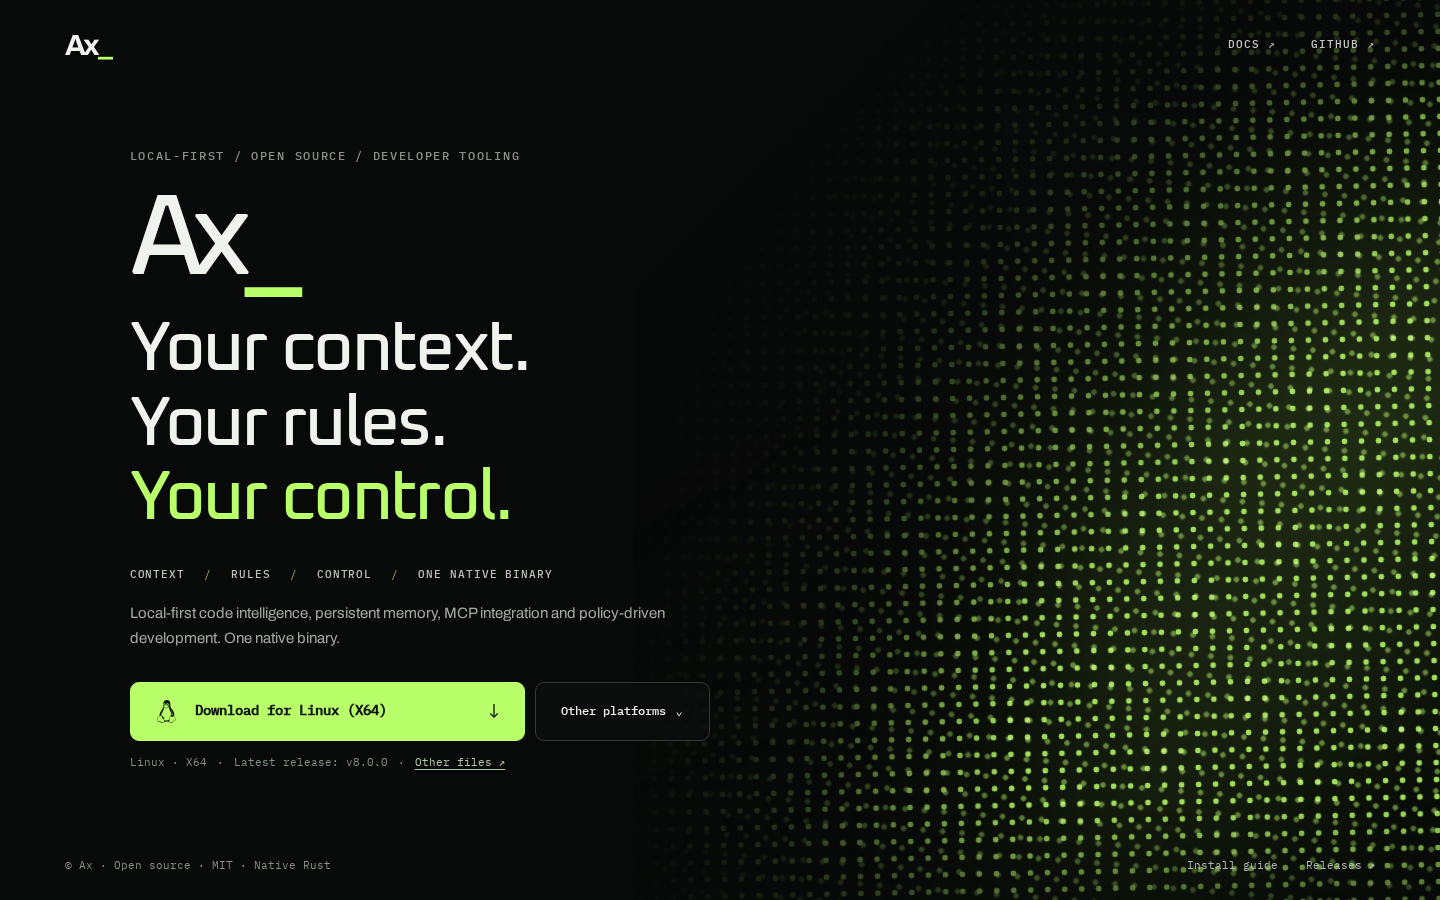
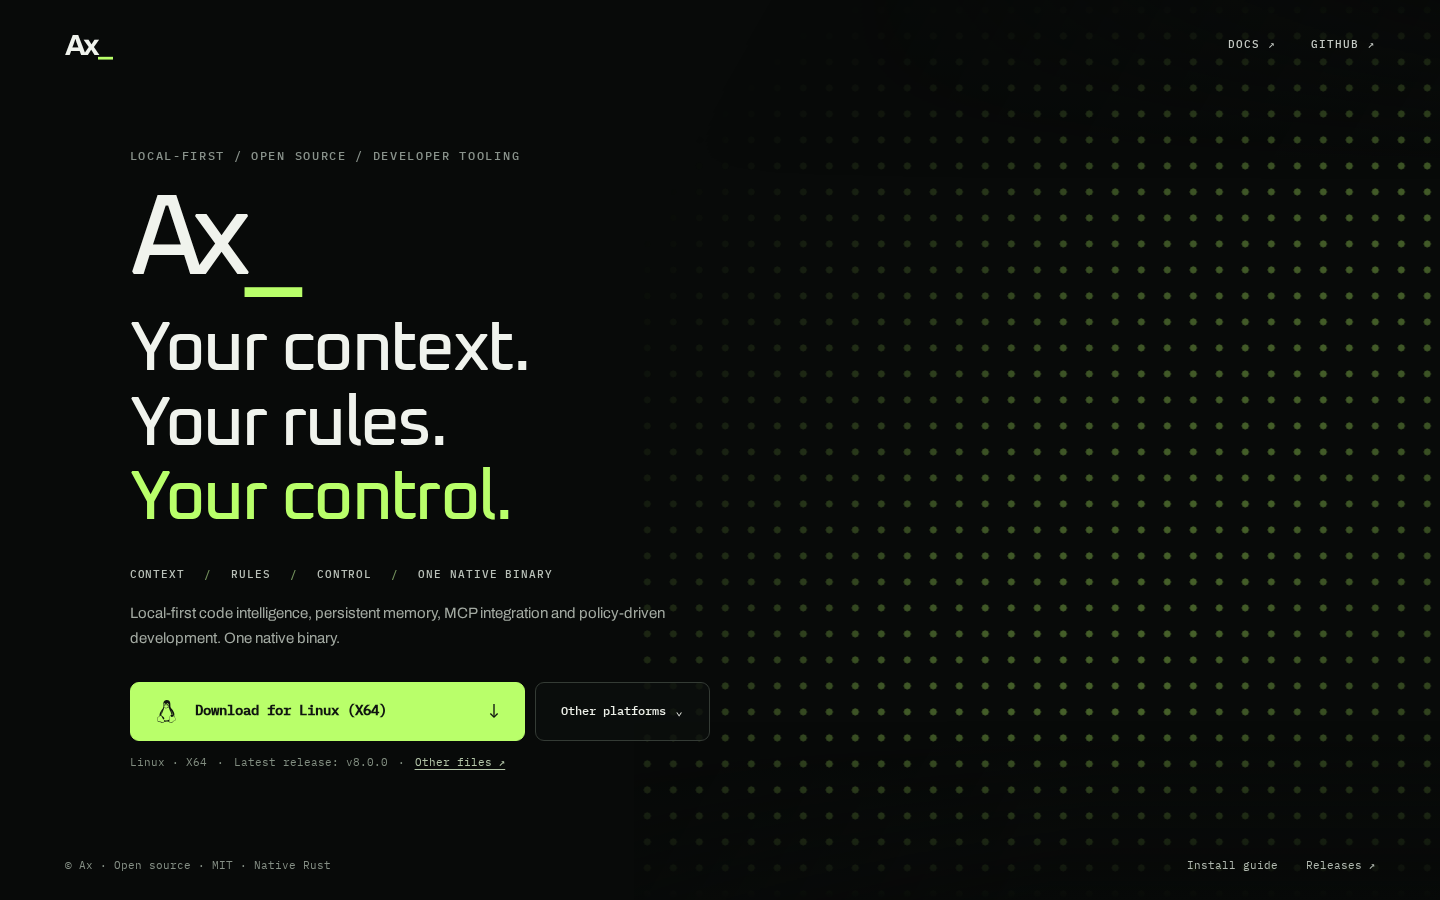
fix(site): calm halftone backdrop and refresh dependencies before builds

Changed region(s): [[0.5, 0.0, 1.0, 1.0]]

diff --git a/site/src/styles/minimal-home.css b/site/src/styles/minimal-home.css
@@ -54,24 +54,22 @@ body.ax-landing{--ax-bg:#080a09;--ax-ink:#f0f3ed;--ax-muted:#a3aaa2;--ax-dim:#6f
 .ax-landing .ax-footer a{color:#b1b9b0}
 .ax-landing .ax-footer a:hover{color:var(--ax-lime)}
 .ax-landing .ax-footer .ax-footer-links{display:flex;gap:28px}
-/* Pop-art halftone moire: larger monochrome dots with interference motion. */
-.ax-landing .ax-moire{position:absolute;z-index:1;inset:-8% -6% -8% 44%;overflow:hidden;pointer-events:none;opacity:.98;mask-image:linear-gradient(135deg,transparent 0%,transparent 18%,rgba(0,0,0,.16) 34%,#000 58%,#000 100%);-webkit-mask-image:linear-gradient(135deg,transparent 0%,transparent 18%,rgba(0,0,0,.16) 34%,#000 58%,#000 100%)}
-.ax-landing .ax-moire::before{content:'';position:absolute;inset:-12%;background:radial-gradient(ellipse at 78% 48%,rgba(185,255,106,.11),transparent 40%),radial-gradient(ellipse at 58% 74%,rgba(185,255,106,.055),transparent 34%)}
-.ax-landing .ax-moire::after{content:'';position:absolute;inset:0;background:linear-gradient(90deg,var(--ax-bg) 0%,rgba(8,10,9,.72) 18%,transparent 43%),linear-gradient(180deg,var(--ax-bg) 0%,transparent 18%,transparent 84%,var(--ax-bg) 100%);pointer-events:none}
-.ax-landing .ax-moire-layer{position:absolute;inset:-16%;transform-origin:66% 52%;filter:drop-shadow(0 0 10px rgba(185,255,106,.05));}
-.ax-landing .ax-moire-layer.one{background-image:radial-gradient(circle,rgba(185,255,106,.88) 0 2.7px,transparent 3.2px);background-size:17px 17px;animation:ax-moire-drift 22s ease-in-out infinite alternate}
-.ax-landing .ax-moire-layer.two{background-image:radial-gradient(circle,rgba(185,255,106,.62) 0 2.35px,transparent 2.9px);background-size:18.8px 18.8px;transform:rotate(4.4deg) scale(1.04);opacity:.82;mix-blend-mode:screen;animation:ax-moire-interference 29s ease-in-out infinite alternate}
-.ax-landing .ax-moire-haze{position:absolute;inset:0;background:radial-gradient(ellipse at 83% 37%,rgba(185,255,106,.09),transparent 30%),radial-gradient(ellipse at 68% 68%,rgba(185,255,106,.075),transparent 33%),radial-gradient(ellipse at 54% 88%,rgba(185,255,106,.04),transparent 28%);animation:ax-moire-breathe 12s ease-in-out infinite alternate}
-@keyframes ax-moire-drift{from{transform:translate3d(-1.8%,.8%,0) rotate(-1.2deg)}to{transform:translate3d(1.4%,-1.15%,0) rotate(.85deg)}}
-@keyframes ax-moire-interference{from{transform:translate3d(-2.4%,1.2%,0) rotate(4.4deg) scale(1.04)}to{transform:translate3d(1.2%,-.8%,0) rotate(5.35deg) scale(1.045)}}
-@keyframes ax-moire-breathe{from{opacity:.46}to{opacity:1}}
+/* A single registered halftone grid. The highlight uses the exact same dots;
+   only its luminance mask moves, so dots never collide or form interference noise. */
+.ax-landing .ax-halftone{position:absolute;z-index:1;inset:0 0 0 44%;overflow:hidden;pointer-events:none;opacity:.85;mask-image:linear-gradient(120deg,transparent 10%,#000 70%);-webkit-mask-image:linear-gradient(120deg,transparent 10%,#000 70%)}
+.ax-landing .ax-halftone::after{content:'';position:absolute;inset:0;background:linear-gradient(180deg,var(--ax-bg),transparent 20%,transparent 80%,var(--ax-bg));pointer-events:none}
+.ax-landing .ax-halftone-grid{position:absolute;inset:-52px;animation:ax-halftone-drift 24s ease-in-out infinite alternate}
+.ax-landing .ax-halftone-dots{position:absolute;inset:0;background-image:radial-gradient(circle,rgba(185,255,106,.28) 0 3.3px,transparent 3.8px);background-size:26px 26px;background-position:0 0}
+.ax-landing .ax-halftone-highlight{background-image:radial-gradient(circle,rgba(185,255,106,.65) 0 3.3px,transparent 3.8px);mask-image:linear-gradient(115deg,transparent 30%,#000 50%,transparent 70%);-webkit-mask-image:linear-gradient(115deg,transparent 30%,#000 50%,transparent 70%);mask-size:260% 100%;-webkit-mask-size:260% 100%;animation:ax-halftone-light 14s ease-in-out infinite alternate}
+@keyframes ax-halftone-drift{from{transform:translate3d(-6px,0,0)}to{transform:translate3d(6px,-6px,0)}}
+@keyframes ax-halftone-light{from{mask-position:0% 0;-webkit-mask-position:0% 0;opacity:.4}to{mask-position:100% 0;-webkit-mask-position:100% 0;opacity:.85}}
 .ax-landing .ax-skip{position:fixed;top:-100px;left:12px;z-index:20;background:var(--ax-lime);color:#101510;padding:10px}.ax-landing .ax-skip:focus{top:10px}
 @media(min-width:900px){html:has(body.ax-landing),body.ax-landing{min-height:100%}.ax-landing .ax-page{min-height:100svh} }
 @media(min-width:900px) and (max-height:790px){.ax-landing .ax-header{height:64px;min-height:64px}.ax-landing .ax-footer{min-height:44px}.ax-landing .ax-eyebrow{margin-bottom:16px}.ax-landing .ax-display-word{font-size:clamp(60px,6.8vw,95px);margin-bottom:9px}.ax-landing .ax-headline{font-size:clamp(33px,4.15vw,60px)}.ax-landing .ax-feature-strip{margin-top:20px}.ax-landing .ax-explainer{margin-top:15px}.ax-landing .ax-download{margin-top:20px}.ax-landing .ax-download-primary{min-height:53px}}
-@media(max-width:899px){.ax-landing .ax-page{min-height:100svh;overflow:hidden}.ax-landing .ax-header{height:75px}.ax-landing .ax-main{padding:62px 27px 90px;align-items:start}.ax-landing .ax-content{width:min(650px,100%)}.ax-landing .ax-moire{inset:2% -18% 18% 16%;opacity:.5}.ax-landing .ax-moire::after{background:linear-gradient(90deg,#080a09 0%,transparent 78%),linear-gradient(180deg,#080a09 0%,transparent 40%,#080a09 100%)}}
-@media(max-width:600px){.ax-landing .ax-header{height:65px;padding-inline:23px}.ax-landing .ax-wordmark{font-size:26px}.ax-landing .ax-navigation{gap:19px}.ax-landing .ax-navigation a{font-size:10px}.ax-landing .ax-main{padding:69px 23px 70px}.ax-landing .ax-eyebrow{font-size:9px;margin-bottom:25px;letter-spacing:.08em}.ax-landing .ax-display-word{font-size:81px;margin-bottom:20px}.ax-landing .ax-headline{font-size:clamp(38px,9.6vw,58px)}.ax-landing .ax-feature-strip{gap:9px 10px;margin-top:29px;font-size:9px}.ax-landing .ax-feature-strip span+span::before{margin-right:10px}.ax-landing .ax-explainer{font-size:14px;margin-top:18px}.ax-landing .ax-download{margin-top:28px}.ax-landing .ax-download-row{flex-direction:column}.ax-landing .ax-download-primary{min-height:58px;font-size:12px;white-space:normal;padding:0 18px;gap:10px}.ax-landing .ax-other-platforms{min-height:48px;width:100%}.ax-landing .ax-platform-panel{width:100%;position:relative;bottom:auto;right:auto;margin:12px 0 0}.ax-landing .ax-download-controls{width:100%}.ax-landing .ax-footer{padding:20px 23px;flex-wrap:wrap;gap:9px;font-size:9px}.ax-landing .ax-footer .ax-footer-links{gap:16px}.ax-landing .ax-moire{inset:10% -30% 18% 6%;opacity:.44}}
-@media(prefers-reduced-motion:reduce){.ax-landing .ax-moire-layer,.ax-landing .ax-moire-haze{animation:none!important}.ax-landing *, .ax-landing *::before,.ax-landing *::after{scroll-behavior:auto!important;transition:none!important}}
-html[data-ax-motion='paused'] .ax-landing .ax-moire-layer,html[data-ax-motion='paused'] .ax-landing .ax-moire-haze{animation-play-state:paused!important}
+@media(max-width:899px){.ax-landing .ax-page{min-height:100svh;overflow:hidden}.ax-landing .ax-header{height:75px}.ax-landing .ax-main{padding:62px 27px 90px;align-items:start}.ax-landing .ax-content{width:min(650px,100%)}.ax-landing .ax-halftone{inset:5% -10% 15% 25%;opacity:.4}.ax-landing .ax-halftone::after{background:linear-gradient(90deg,#080a09 0%,transparent 78%),linear-gradient(180deg,#080a09 0%,transparent 40%,#080a09 100%)}}
+@media(max-width:600px){.ax-landing .ax-header{height:65px;padding-inline:23px}.ax-landing .ax-wordmark{font-size:26px}.ax-landing .ax-navigation{gap:19px}.ax-landing .ax-navigation a{font-size:10px}.ax-landing .ax-main{padding:69px 23px 70px}.ax-landing .ax-eyebrow{font-size:9px;margin-bottom:25px;letter-spacing:.08em}.ax-landing .ax-display-word{font-size:81px;margin-bottom:20px}.ax-landing .ax-headline{font-size:clamp(38px,9.6vw,58px)}.ax-landing .ax-feature-strip{gap:9px 10px;margin-top:29px;font-size:9px}.ax-landing .ax-feature-strip span+span::before{margin-right:10px}.ax-landing .ax-explainer{font-size:14px;margin-top:18px}.ax-landing .ax-download{margin-top:28px}.ax-landing .ax-download-row{flex-direction:column}.ax-landing .ax-download-primary{min-height:58px;font-size:12px;white-space:normal;padding:0 18px;gap:10px}.ax-landing .ax-other-platforms{min-height:48px;width:100%}.ax-landing .ax-platform-panel{width:100%;position:relative;bottom:auto;right:auto;margin:12px 0 0}.ax-landing .ax-download-controls{width:100%}.ax-landing .ax-footer{padding:20px 23px;flex-wrap:wrap;gap:9px;font-size:9px}.ax-landing .ax-footer .ax-footer-links{gap:16px}.ax-landing .ax-halftone{inset:10% -20% 18% 24%;opacity:.35}}
+@media(prefers-reduced-motion:reduce){.ax-landing .ax-halftone-grid,.ax-landing .ax-halftone-highlight{animation:none!important}.ax-landing *, .ax-landing *::before,.ax-landing *::after{scroll-behavior:auto!important;transition:none!important}}
+html[data-ax-motion='paused'] .ax-landing .ax-halftone-grid,html[data-ax-motion='paused'] .ax-landing .ax-halftone-highlight{animation-play-state:paused!important}
 /* Keep the platform selector aligned with the primary download control. */
 .ax-landing .ax-download-controls{display:flex;align-items:stretch}
 .ax-landing .ax-other-platforms{min-height:59px}

diff --git a/site/tests/home-minimal.test.ts b/site/tests/home-minimal.test.ts
@@ -29,13 +29,13 @@ test('Oxanium is bundled and used for the heading, not loaded from Google Fonts'
   assert.doesNotMatch(page, /fonts\.googleapis\.com|fonts\.gstatic\.com/);
 });
 
-test('pop-art lime moire grid remains CSS-only, moving and accessible', () => {
-  assert.match(home, /ax-moire-layer one/);
-  assert.match(home, /ax-moire-layer two/);
-  assert.match(css, /17px 17px/);
-  assert.match(css, /18\.8px 18\.8px/);
+test('registered halftone grid remains CSS-only, moving and accessible', () => {
+  assert.match(home, /ax-halftone-grid/);
+  assert.match(home, /ax-halftone-highlight/);
+  assert.match(css, /26px 26px/);
+  assert.doesNotMatch(css, /ax-moire|mix-blend-mode|rotate\(/);
   assert.match(css, /rgba\(185,255,106/);
-  assert.match(css, /@keyframes ax-moire-interference/);
+  assert.match(css, /@keyframes ax-halftone-light/);
   assert.match(css, /prefers-reduced-motion:reduce/);
   assert.match(css, /@media\(min-width:900px\)/);
   assert.doesNotMatch(css, /background-image:\s*url\(/);
